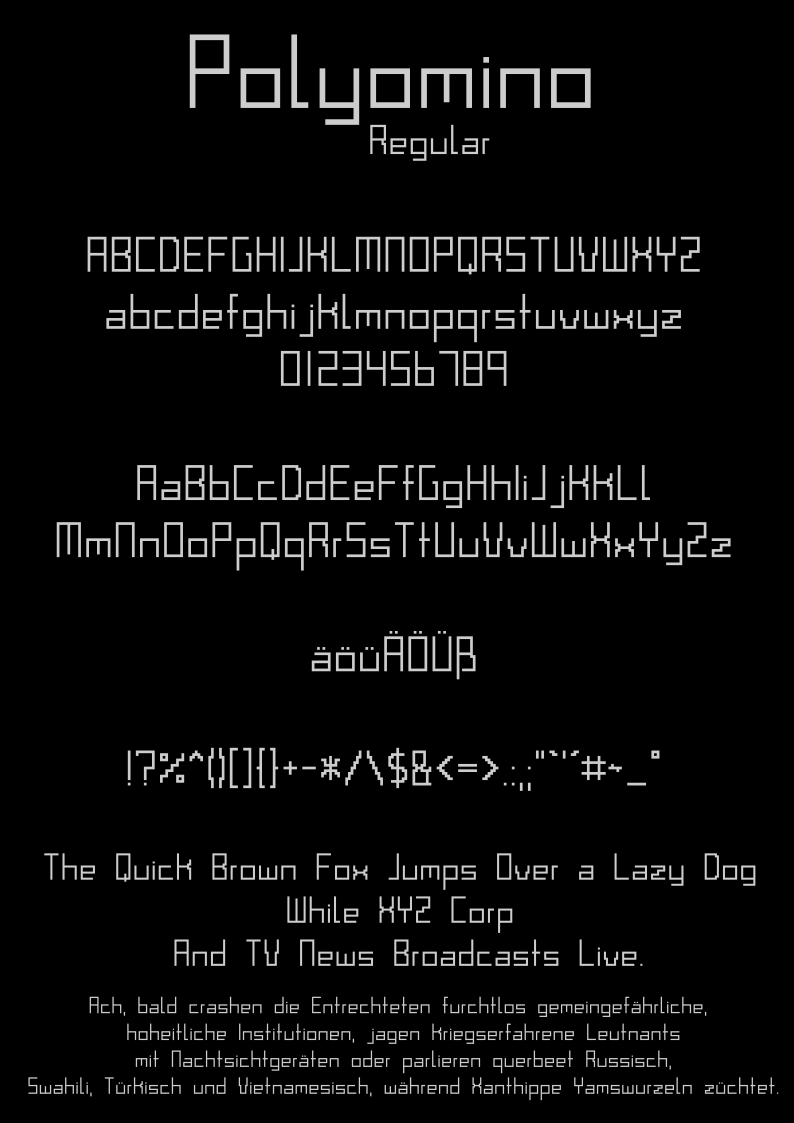
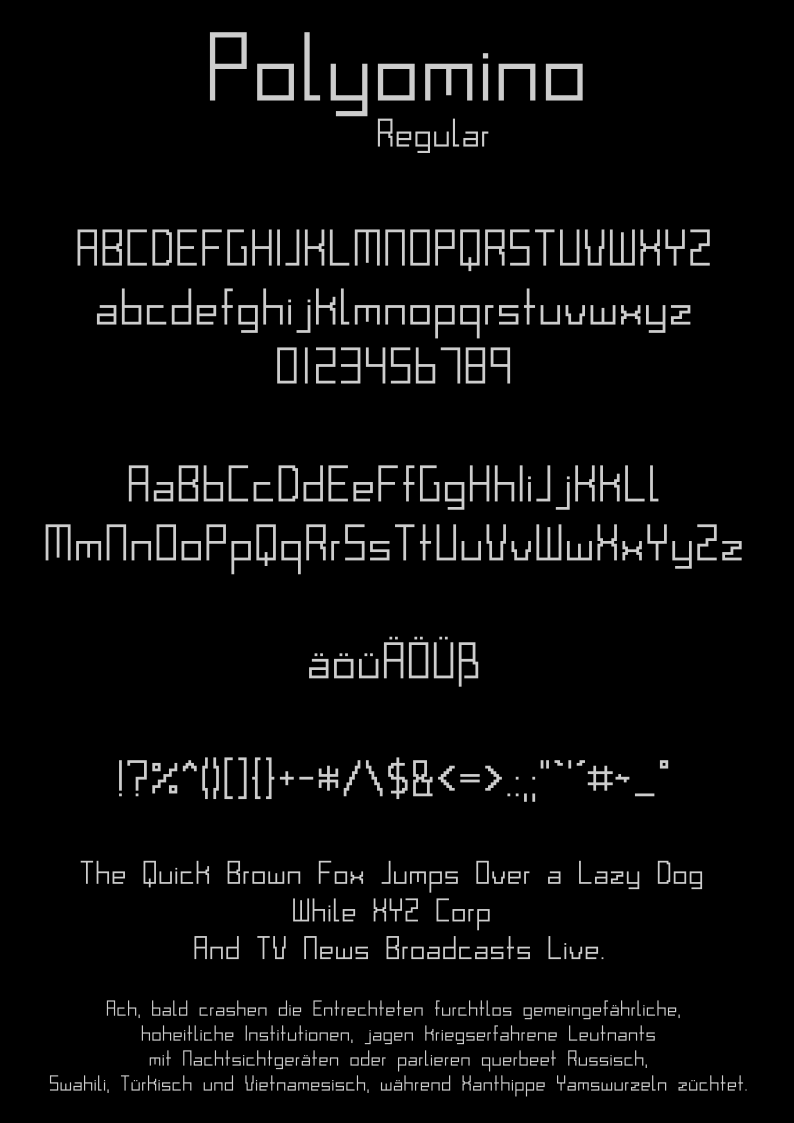
Add bold showcase and adjust regular showcase

diff --git a/README.md b/README.md
@@ -24,4 +24,7 @@ not look harmonic.
 - Bold 
  
 # Preview
+## Regular
 ![Polyomino Regular Showcase](images/showcase-regular.png)
+## Bold
+![Polyomino Bold Showcase](images/showcase-bold.png)